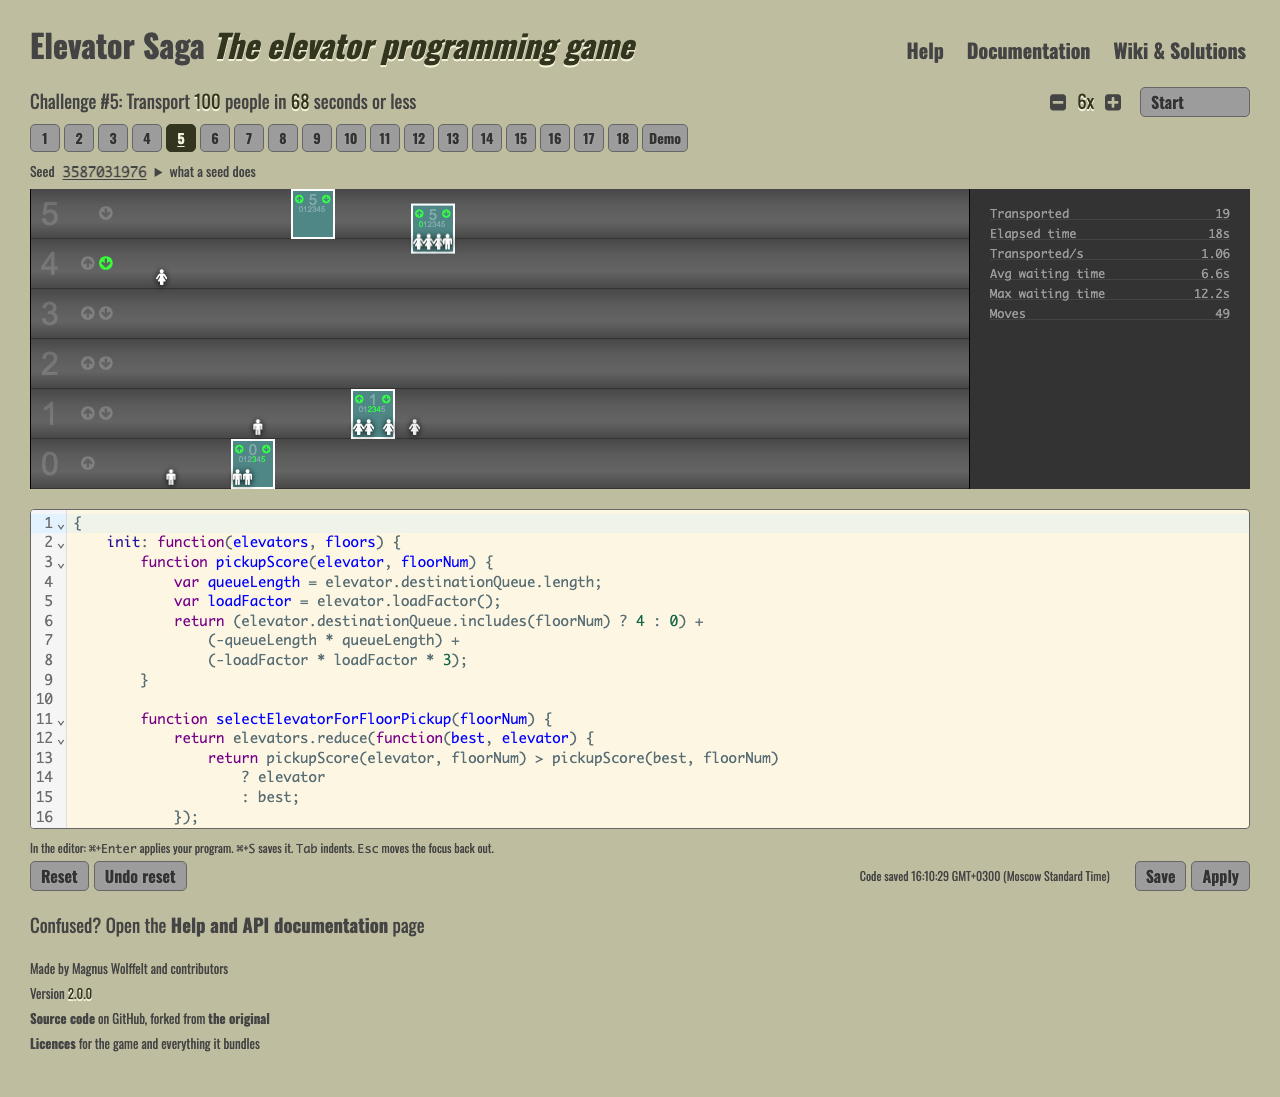
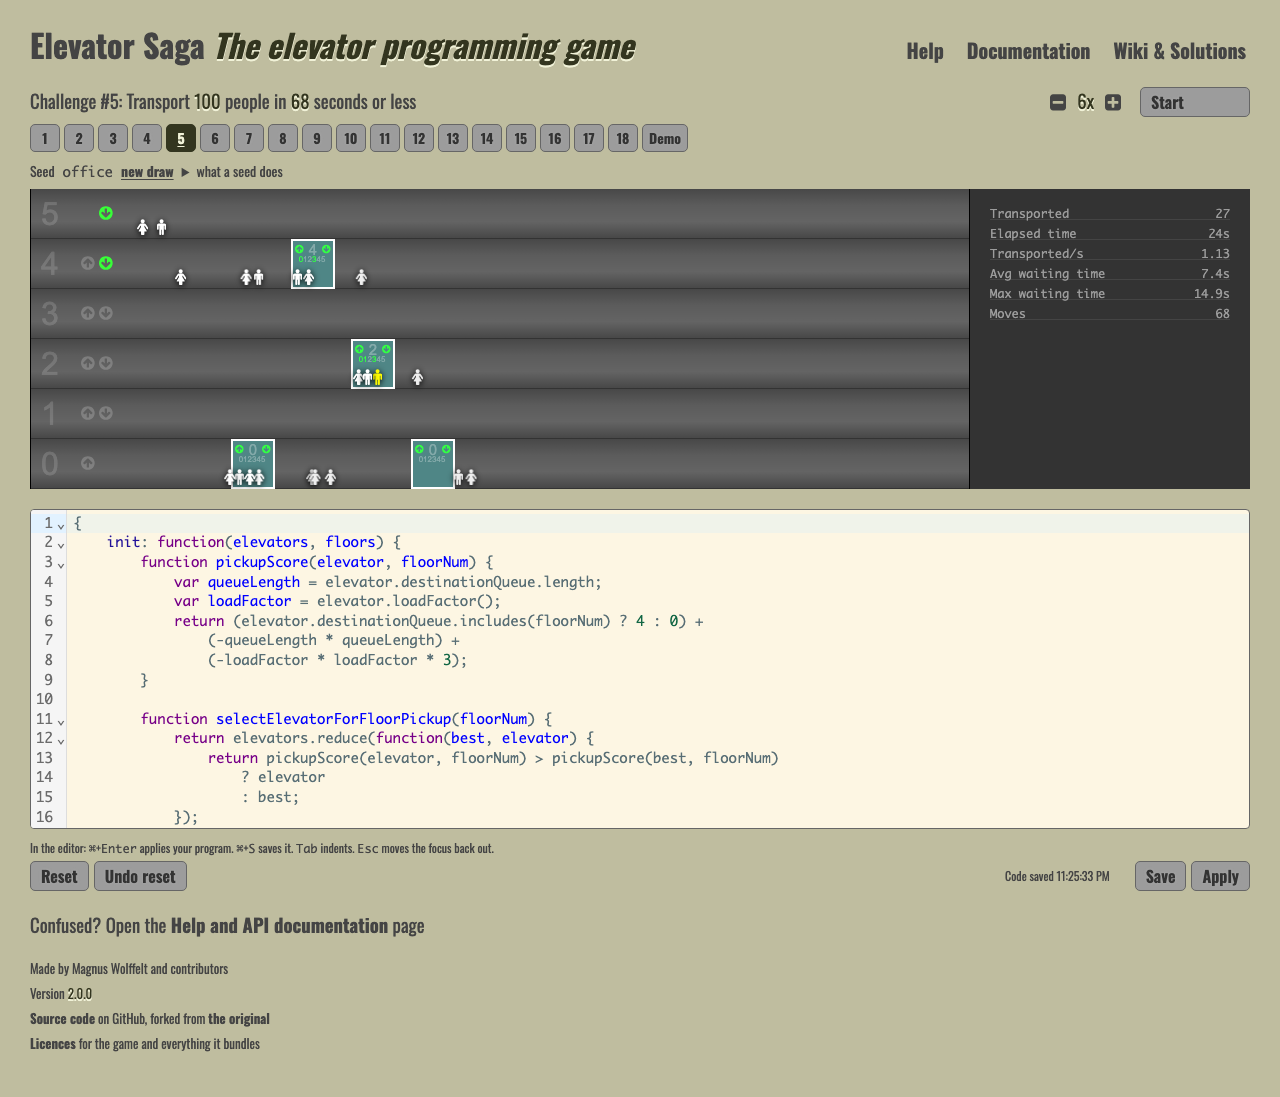
Draw the README screenshot from a pinned seed
`e2e/screenshot.spec.ts` went to `#challenge=5,devtest,timescale=6,autostart`
with no seed, so every capture drew its own passengers. The picture is a tracked
file, and that made its diff useless: recapturing after a change to how the game
looks showed a different crowd in a different building state, with the change
itself somewhere inside that. There was no way to see what a stylesheet had done
to the picture, which is the only reason to recapture it at all.

It now runs `seed=office`.

What a seed pins is the cast -- who walks in, when, and where they are going.
It does not pin the run, and `seedHelpTemplate` in src/ui/templates.ts already
says why: `dt` comes from `requestAnimationFrame`, so the cars are elsewhere as
each passenger appears. That caveat is not weakened here, it is worked around:
a headless Chromium with nothing else to do delivers frames regular enough that
this particular seed lands in the same place. Six captures of it -- three in a
scratch tree, two in this one and one from a pristine checkout of HEAD with
these files overlaid -- all read 27 transported in 24s at 1.13 a second and 68
moves, cars at floors 4, 2, 0 and 0, the same passengers waiting on the same
floors. The average wait came out 7.5s or 7.4s and the worst 14.9s or 14.8s;
that is the whole of the difference between the six.

Steadiness is a property of the seed, not of the mechanism, and the spec says so
rather than promising more than it has. Eleven seeds were captured and compared
[…]

diff --git a/e2e/screenshot.spec.ts b/e2e/screenshot.spec.ts
@@ -33,6 +33,36 @@ const OUTPUT_PATH = "public/images/screenshot.png";
  */
 const TRANSPORTED_BEFORE_CAPTURE = 18;
 
+/**
+ * The seed the picture is drawn from.
+ *
+ * Pinned so that regenerating the image after a change to the look of the game
+ * shows the change and not a different game: without it every capture drew its
+ * own passengers, and the diff on a tracked PNG was a fresh crowd every time.
+ *
+ * What a seed pins is the cast: who walks in, when, and where they are going.
+ * It does not pin the run, and `seedHelpTemplate` in `src/ui/templates.ts` says
+ * why — `dt` comes from `requestAnimationFrame`, so the cars are elsewhere as
+ * each passenger appears and the outcome moves with them. That caveat holds
+ * here too; what makes the picture steady anyway is that a headless Chromium
+ * with nothing else to do delivers very regular frames. Six captures from this
+ * seed all came out at 27 transported in 24s at 1.13 a second and 68 moves,
+ * with the cars at floors 4, 2, 0 and 0 and the same passengers waiting on the
+ * same floors; the average wait read 7.5s or 7.4s and the worst 14.9s or 14.8s,
+ * which is the whole of the difference between them. Other seeds tried were not
+ * all this steady — `tower` landed on 23 transported once and 25 twice — so the
+ * steadiness is a property of the seed picked, not a promise of the mechanism,
+ * and a regenerated picture that differs in a car or two is the run wobbling
+ * rather than anything being wrong. The wall-clock "Code saved" line under the
+ * editor is the one part no seed reaches at all.
+ *
+ * Chosen over the others tried for the composition at 1280x1000: passengers
+ * left waiting on four of the six floors, cars caught at three different
+ * heights rather than parked in a row, and the one marked by `waiting-longest`
+ * near the middle of the frame, level with the "Max waiting time" it explains.
+ */
+const SEED = "office";
+
 test.describe("README screenshot", () => {
   // 1280 wide is the shell's own 1220px plus a margin, at a device pixel ratio
   // of 1: large enough to show the whole game, small enough to drop into a
@@ -42,7 +72,14 @@ test.describe("README screenshot", () => {
   test("captures the game mid-challenge", async ({ page }) => {
     // The reference solution, so the editor shows a real program rather than
     // the two-line starter, running the challenge the original screenshot used.
-    await page.goto("/#challenge=5,devtest,timescale=6,autostart");
+    await page.goto(`/#challenge=5,devtest,timescale=6,autostart,seed=${SEED}`);
+
+    // The seed took. A seed the router refuses is swapped for a fresh one with
+    // nothing but a console warning to show for it, and the picture would go
+    // quietly back to being a different game on every capture. The `new draw`
+    // link is the tell: it exists only when the route pins a seed, and its
+    // accessible name is the seed it would drop.
+    await expect(page.getByRole("link", { name: new RegExp(`^Seed ${SEED}\\b`) })).toBeVisible();
 
     await expect
       .poll(async () => statisticValue(page, "Transported"), { timeout: 60_000 })

diff --git a/README.md b/README.md
@@ -3,8 +3,9 @@
 [![CI](https://github.com/EpicDima/elevatorsaga/actions/workflows/ci.yml/badge.svg)](https://github.com/EpicDima/elevatorsaga/actions/workflows/ci.yml)
 
 ![Challenge 5 in progress: four elevators carrying people between six floors, passengers waiting on
-the landings, the statistics panel counting them, and the JavaScript program driving it all in the
-editor below](public/images/screenshot.png)
+the landings, one of them marked yellow as the longest wait the panel is reporting, the statistics
+panel counting them, and the JavaScript program driving it all in the editor
+below](public/images/screenshot.png)
 
 Elevator Saga is a programming game. You are given a building, a few elevators and a stream of
 impatient people, and the only control you have is a small JavaScript program: an object with an
@@ -399,7 +400,8 @@ see each other's files — Vitest collects `src/**/*.test.ts`, Playwright collec
 excluded from the suite and run on its own with `npm run screenshot`; nothing in CI rewrites it. It
 lives under `public/` because it is also the site's `og:image`: Vite copies that directory to the
 root of `dist/`, so the picture at the top of this file and the one in a link preview are the same
-file.
+file. The run it captures is drawn from a pinned seed, so recapturing after a change to the look of
+the game shows that change rather than a fresh crowd; the spec says which seed and why.
 
 Before opening a pull request, run what CI runs: `npm run typecheck`, `npm run lint`,
 `npm run format:check`, `npm test`, `npm run build` and `npm run test:e2e`. CI runs the same five
